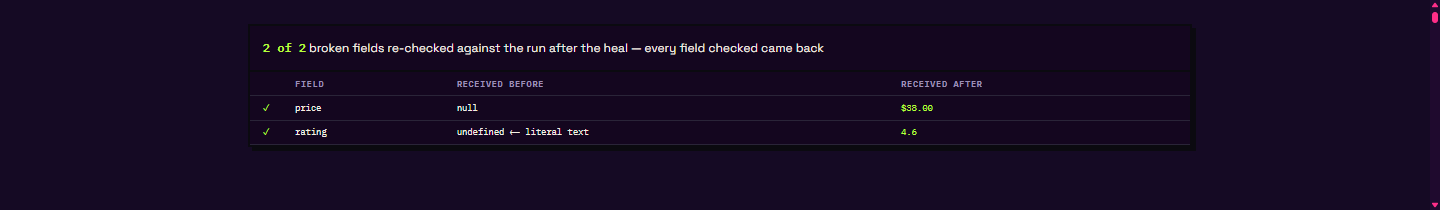
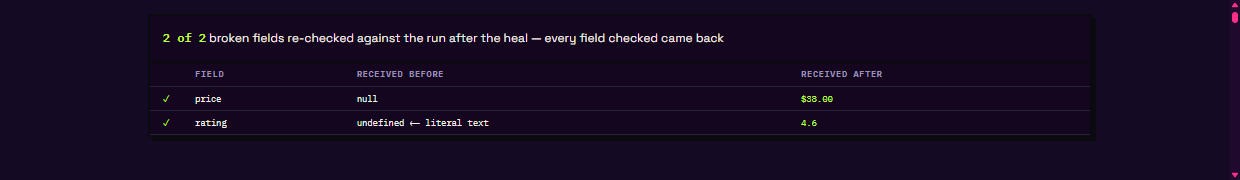
docs: one screenshot per section, and a real close-up of the web
The lede and the ten-minute table sat back to back with near-identical
shots of the same diptych. Give each screenshot its own section instead:
the console overview leads, the web close-up sits with the data it hides,
the receipt sits with the heal that writes it, the manual sits with the
tools it documents, and the CHAOS LAB stays with the instructions to run it.

Retake the web shot as a single broken Spider at full size — KESTREL at 0%,
the whole panel under thread — rather than a crop of the diptych already
visible in the overview. Retake the receipt without the dead margin.

diff --git a/README.md b/README.md
@@ -17,7 +17,7 @@ promised came back real. When Integrity drops, a web spins over its panel coveri
 exactly the share that was lost — and you drag the threads away, one whole strand at a
 time, to read the values that actually arrived.
 
-![Two Spider panels side by side: a healthy KESTREL at 100% Integrity, and the same collector on the day it broke, its readings buried under a dense spider web marked SOMETHING IS UNDER THERE](assets/scratch-web.png)
+![THE WATCH: the console at rest — fleet Integrity 80%, the last scan time, a stale-watch clock reading 1d 2h, the fleet pulse, and the archive diptych below](assets/the-watch.png)
 
 ---
 
@@ -33,8 +33,6 @@ Nothing below needs an API key, touches the network, or spends a credit.
 | 4 | `git clone` this repo, then `npm test` | 1,453 tests, `node:test`, zero dependencies, offline |
 | 5 | `node tools/evidence-report.js inc_004` | The full trail of the incident **no human touched**, with SHA-256 digests |
 | 6 | `git log --author="thwip watch" --oneline \| wc -l` | Commits authored by the workflow, not by a person |
-
-![THE WATCH: the console at rest — fleet Integrity 80%, the last scan time, a stale-watch clock reading 1d 2h, the fleet pulse, and the archive diptych below](assets/the-watch.png)
 
 ---
 
@@ -84,6 +82,11 @@ exists at all.
 The console shows those rows as themselves under **THE HAUL**, each stamped with the
 collector that fetched it, when it was scanned, and the Integrity that Spider was at when
 the row was captured. Provenance travels with the data.
+
+![One Spider on the day it broke: KESTREL at 0% Integrity, its whole panel spun over with web so the readings underneath cannot be read, stamped SOMETHING IS UNDER THERE](assets/scratch-web.png)
+
+*A Spider that lost everything. The web covers exactly the share of the contract that
+did not come back — drag the threads away and the nulls underneath are readable.*
 
 ---
 
@@ -169,6 +172,11 @@ believed it at the time. A monitoring tool that quietly rewrites its own history
 smarter is precisely the thing this project exists to catch; it does not get an exemption
 for being ours.
 
+![The re-weave receipt: 2 of 2 broken fields re-checked against the run after the heal — price went from null to $38.00, rating from the literal text undefined to 4.6](assets/chaos-lab-receipt-1440.png)
+
+*The proof a re-weave writes: every broken field re-checked against a fresh scrape after
+the heal, with the value before and after, on an unchanged collector id.*
+
 ---
 
 ## The Collector ID as a production endpoint
@@ -200,6 +208,11 @@ step, no dependencies. Six read the committed record and are instant, free, and 
 touch the network. Two spend Bright Data credit and say so in their own descriptions, so
 a well-behaved agent asks before it bills you.
 
+![The manual: the newspaper advertisement with eight tools, a 1,453-tests seal, and a cut-out coupon carrying the three install commands](assets/manual-1440.png)
+
+*[`/manual.html`](https://mikhailkhorokhorin.github.io/scrape-verse-hack/manual.html) —
+the console's back page. The test count on it is read from `data/meta.json` at page load.*
+
 ```bash
 claude mcp add thwip -- node mcp/server.js
 ```
@@ -229,9 +242,7 @@ python3 -m http.server 8000               # any static server
 ![The CHAOS LAB: BREAK BODEGA, RE-WEAVE, TOGGLE UNWATCHED and RESET, above a synthetic fleet of three Spiders — BODEGA has just been broken and sits at 38% Integrity under a web, beside a healthy ATLAS at 100%](assets/chaos-lab-break-1440.png)
 
 *`?mock=1` — the CHAOS LAB. Press BREAK BODEGA and the web spins over the panel;
-RE-WEAVE prints the receipt below.*
-
-![The re-weave receipt: 2 of 2 broken fields re-checked against the run after the heal — price went from null to $38.00, rating from the literal text undefined to 4.6](assets/chaos-lab-receipt-1440.png)
+RE-WEAVE heals it and prints the receipt shown further up.*
 
 Then open <http://localhost:8000/web/> — the console reads two committed JSON files and
 needs no backend. Add `?mock=1` for the CHAOS LAB, where the fleet is synthetic and says
@@ -240,11 +251,6 @@ so, but the break, the spread and the receipt are the same code the live page ru
 To scan for real you need a Bright Data account and `bdata login`; `npm run health` and
 `npm run repair` are the two entry points the cron itself uses. **Everything above this
 line works without a key.**
-
-![The manual: the newspaper advertisement with eight tools, a 1,453-tests seal, and a cut-out coupon carrying the three install commands](assets/manual-1440.png)
-
-*[`/manual.html`](https://mikhailkhorokhorin.github.io/scrape-verse-hack/manual.html) —
-the console's back page. The test count on it is read from `data/meta.json` at page load.*
 
 ---
 
